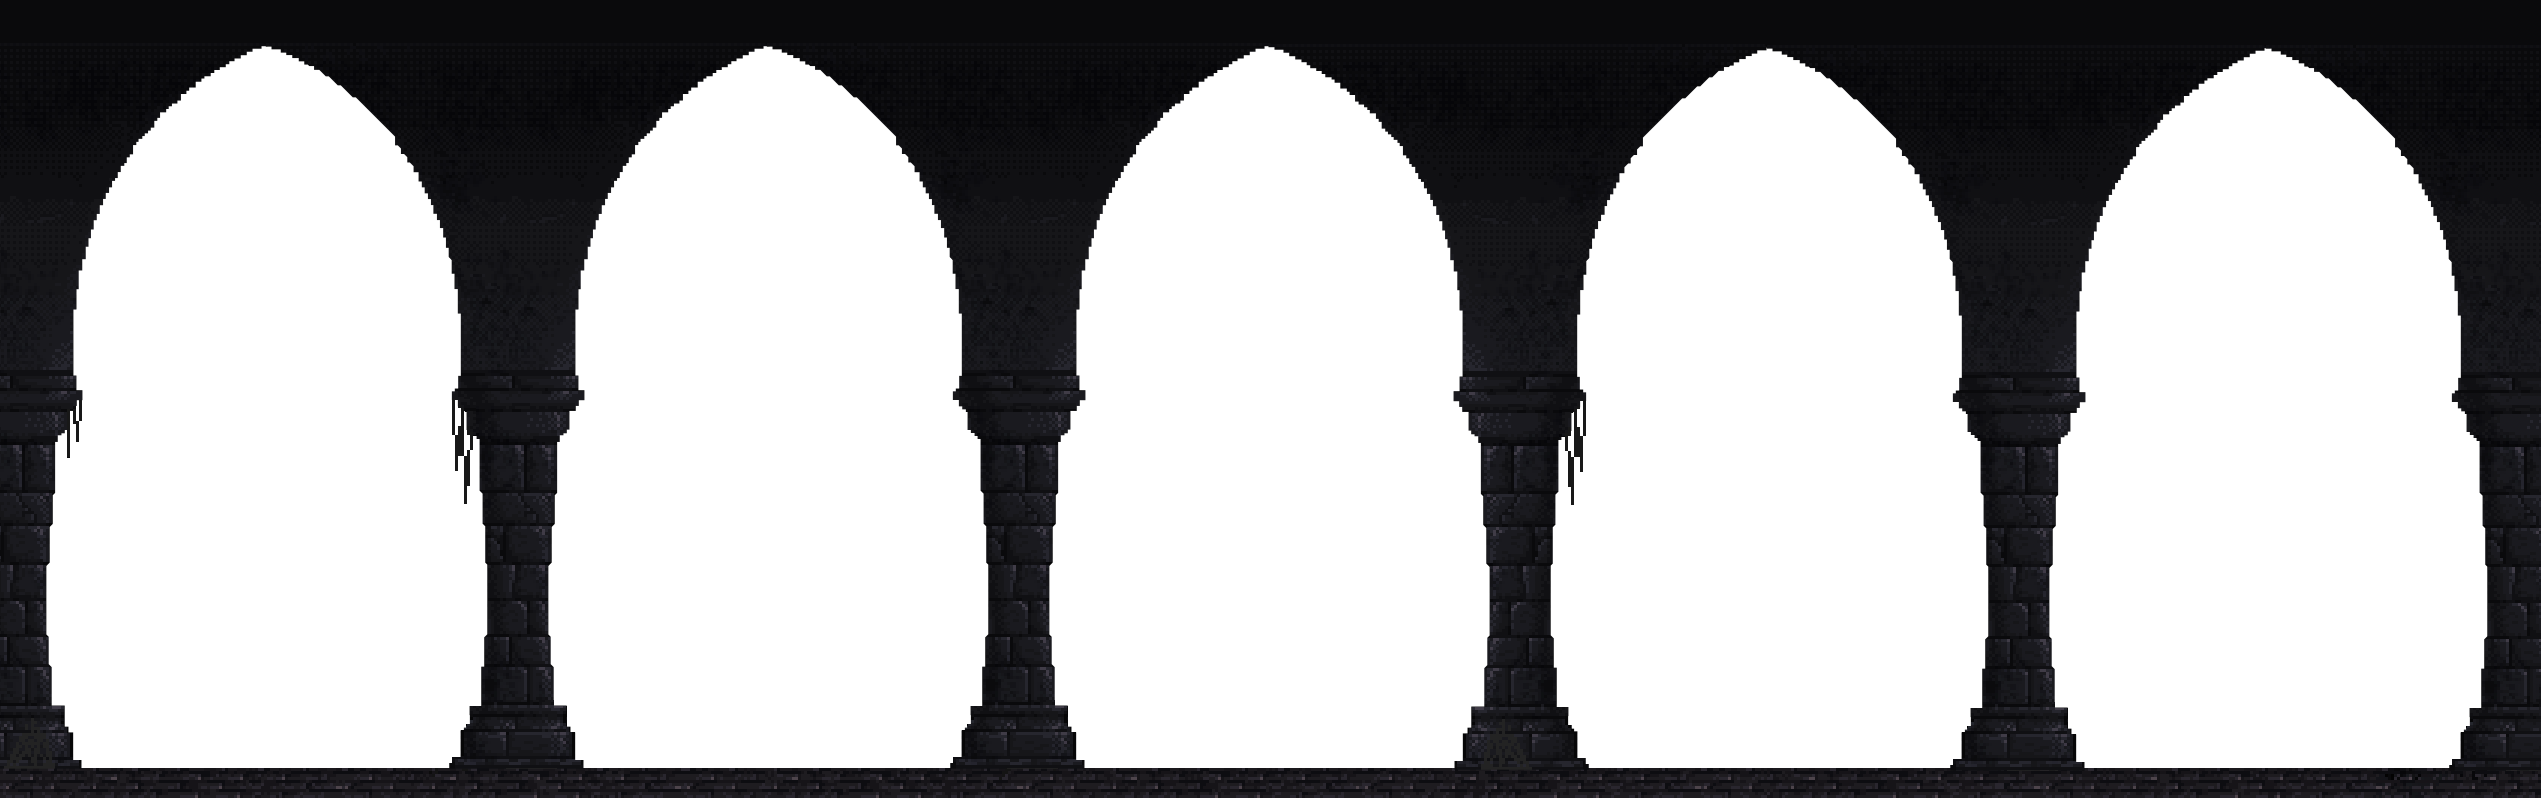
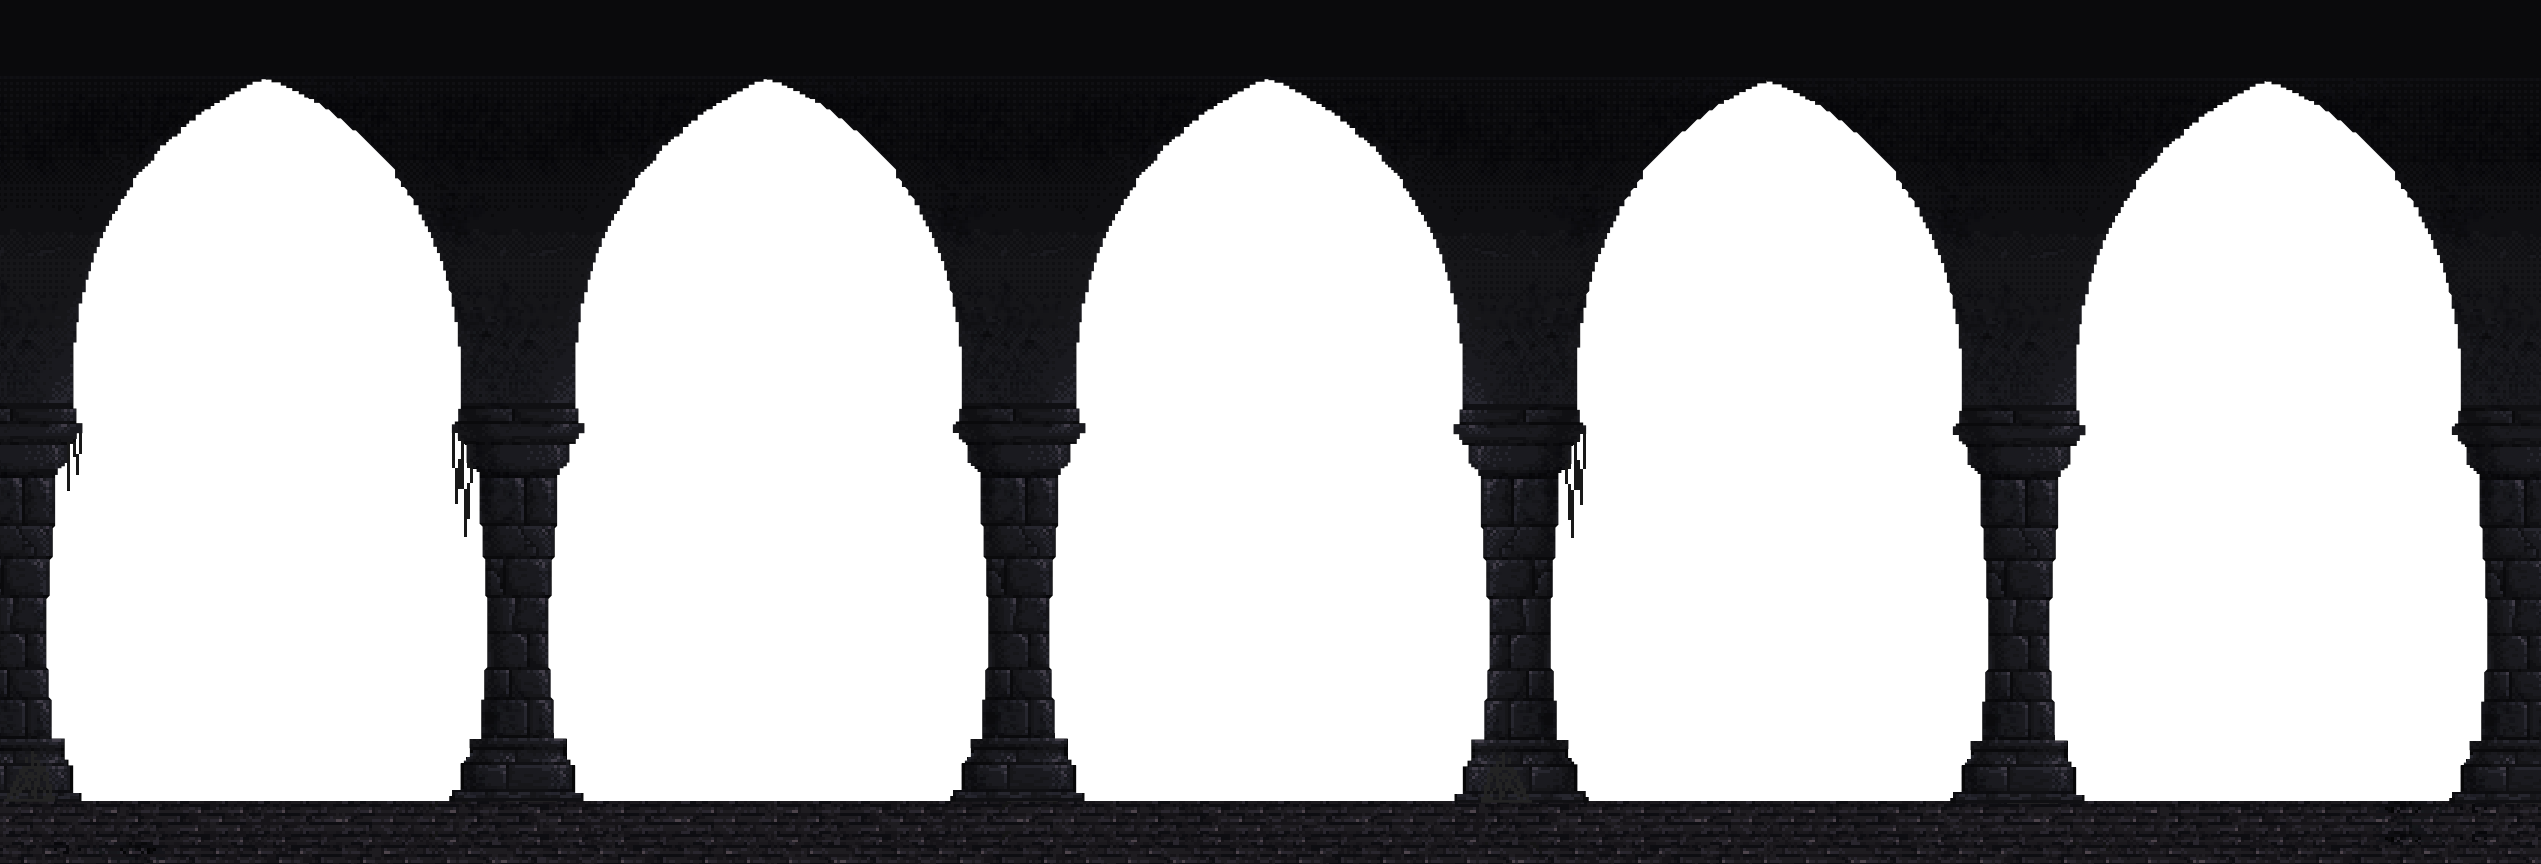
AAAAA YA PSIH AAAAAA

diff --git a/Classes/MainMenuScene.cpp b/Classes/MainMenuScene.cpp
@@ -5,6 +5,7 @@
 #include "Definitions.h"
 #include "AudioEngine.h"
 #include "InputListener.h"
+#include "ui/CocosGUI.h"
 
 USING_NS_CC;
 
@@ -27,6 +28,8 @@ static void problemLoading(const char* filename)
 // on "init" you need to initialize your instance
 bool MainMenuScene::init()
 {
+    InputListener::Instance()->Init(this);
+
     Settings* settings = new Settings;
     AudioEngine::play2d("res/sounds/bgsound2.mp3", true, settings->getMusicVolume());
 
@@ -35,12 +38,15 @@ bool MainMenuScene::init()
 
     parallax1 = Sprite::create("res/parallax/prlxback1.png");
     parallax1->setPosition(Point(visibleSize.width / 2 + origin.x, visibleSize.height / 2 + origin.y));
+    parallax1->setScale(0.9);
     this->addChild(parallax1);
     parallax2 = Sprite::create("res/parallax/prlxmiddle1.png");
     parallax2->setPosition(Point(visibleSize.width / 2 + origin.x, visibleSize.height / 2 + origin.y));
+    parallax2->setScale(0.9);
     this->addChild(parallax2);
     parallax3 = Sprite::create("res/parallax/prlxfront1.png");
     parallax3->setPosition(Point(visibleSize.width / 2 + origin.x, visibleSize.height / 2 + origin.y));
+    parallax3->setScale(0.9);
     this->addChild(parallax3);
 
     auto playItem = MenuItemImage::create("res/ui/buttons/start.png", "res/ui/buttons/start_pressed.png", CC_CALLBACK_1(MainMenuScene::GoToCutScene,this));
@@ -64,10 +70,53 @@ void MainMenuScene::GoToCutScene(cocos2d::Ref* sender)
 
 }
 
+void MainMenuScene::GoToMainMenu(cocos2d::Ref* sender)
+{
+
+}
+
 void MainMenuScene::GoToSettings(cocos2d::Ref* sender)
 {
-    auto scene = Settings::createScene();
-    Director::getInstance()->replaceScene(TransitionFade::create(TRANSITION_TIME, scene));
+    this->removeChildByName("menu", true);
+
+    auto backItem = MenuItemImage::create("res/ui/buttons/back.png", "res/ui/buttons/back_pressed.png", CC_CALLBACK_1(MainMenuScene::GoToMainMenu, this));
+    backItem->setPosition(Point(0, 0));
+
+    auto mBackground = Sprite::create("res/ui/musicbg.png");
+    mBackground->setPosition(Point(visibleSize.width / 2 + origin.x, visibleSize.height / 2 + origin.y));
+    this->addChild(mBackground);
+    musicBar = ui::LoadingBar::create("res/ui/musicbar.png");
+    musicBar->setPosition(Point(visibleSize.width / 2 + origin.x, visibleSize.height / 2 + origin.y));
+    musicBar->setDirection(ui::LoadingBar::Direction::LEFT);
+    musicBar->setPercent(music * 100);
+    this->addChild(musicBar);
+
+    auto musicminusItem = MenuItemImage::create("res/ui/buttons/left.png", "res/ui/buttons/left_pressed.png", CC_CALLBACK_1(MainMenuScene::musicMinus, this));
+    auto musicplusItem = MenuItemImage::create("res/ui/buttons/right.png", "res/ui/buttons/right_pressed.png", CC_CALLBACK_1(MainMenuScene::musicPlus, this));
+    auto musicMenu = Menu::create(musicminusItem, musicplusItem, NULL);
+    musicMenu->setPosition(Point(visibleSize.width / 2 + origin.x, visibleSize.height / 2 + origin.y));
+    musicMenu->alignItemsHorizontallyWithPadding(mBackground->getContentSize().width + 10);
+    this->addChild(musicMenu);
+
+    auto sBackground = Sprite::create("res/ui/sfxbg.png");
+    sBackground->setPosition(Point(visibleSize.width / 2 + origin.x, visibleSize.height / 3 + origin.y));
+    this->addChild(sBackground);
+    sfxBar = ui::LoadingBar::create("res/ui/sfxbar.png");
+    sfxBar->setPosition(Point(visibleSize.width / 2 + origin.x, visibleSize.height / 3 + origin.y));
+    sfxBar->setDirection(ui::LoadingBar::Direction::LEFT);
+    sfxBar->setPercent(sfx * 100);
+    this->addChild(sfxBar);
+
+    auto sfxminusItem = MenuItemImage::create("res/ui/buttons/left.png", "res/ui/buttons/left_pressed.png", CC_CALLBACK_1(MainMenuScene::sfxMinus, this));
+    auto sfxplusItem = MenuItemImage::create("res/ui/buttons/right.png", "res/ui/buttons/right_pressed.png", CC_CALLBACK_1(MainMenuScene::sfxPlus, this));
+    auto sfxMenu = Menu::create(sfxminusItem, sfxplusItem, NULL);
+    sfxMenu->setPosition(Point(visibleSize.width / 2 + origin.x, visibleSize.height / 3 + origin.y));
+    sfxMenu->alignItemsHorizontallyWithPadding(sBackground->getContentSize().width + 10);
+    this->addChild(sfxMenu);
+
+    auto menu = Menu::create(backItem, NULL);
+    menu->setPosition(Point(visibleSize.width / 2 + origin.x, visibleSize.height / 5 + origin.y));
+    this->addChild(menu);
 }
 
 void MainMenuScene::Exit(cocos2d::Ref* sender)
@@ -77,9 +126,62 @@ void MainMenuScene::Exit(cocos2d::Ref* sender)
 
 void MainMenuScene::update(float dt)
 {
-    InputListener::Instance()->Init(this);
     CCLOG("mouse move %f, %f", InputListener::Instance()->mousePosition.x, InputListener::Instance()->mousePosition.y);
     parallax1->setPosition(Point(((visibleSize.width / 2 + origin.x) - InputListener::Instance()->mousePosition.x * 0.1), 50 + ((visibleSize.height / 2 + origin.y) - InputListener::Instance()->mousePosition.y * 0.1)));
     parallax2->setPosition(Point(((visibleSize.width / 2 + origin.x) - InputListener::Instance()->mousePosition.x * 0.2), 50 + ((visibleSize.height / 2 + origin.y) - InputListener::Instance()->mousePosition.y * 0.1)));
     parallax3->setPosition(Point(((visibleSize.width / 2 + origin.x) - InputListener::Instance()->mousePosition.x * 0.6), 50 + ((visibleSize.height / 2 + origin.y) - InputListener::Instance()->mousePosition.y * 0.1)));
+}
+
+void MainMenuScene::musicPlus(cocos2d::Ref* sender)
+{
+    if (music < 1.0)
+    {
+        music += 0.1f;
+        musicBar->setPercent(music * 100);
+        AudioEngine::setVolume(1, music);
+    }
+}
+
+void MainMenuScene::musicMinus(cocos2d::Ref* sender)
+{
+    if (music > 0.00f)
+    {
+        music -= 0.1f;
+        musicBar->setPercent(music * 100);
+        AudioEngine::setVolume(1, music);
+    }
+}
+
+void MainMenuScene::sfxPlus(cocos2d::Ref* sender)
+{
+    if (sfx < 1.0)
+    {
+        sfx += 0.1f;
+        sfxBar->setPercent(sfx * 100);
+    }
+}
+
+void MainMenuScene::sfxMinus(cocos2d::Ref* sender)
+{
+    if (sfx > 0.00f)
+    {
+        sfx -= 0.1f;
+        sfxBar->setPercent(sfx * 100);
+    }
+}
+
+float MainMenuScene::getMusicVolume()
+{
+    return music;
+}
+
+float MainMenuScene::getSFXVolume()
+{
+    return sfx;
+}
+
+
+double MainMenuScene::getDifficult()
+{
+    return difficult;
 }

diff --git a/Classes/MainMenuScene.h b/Classes/MainMenuScene.h
@@ -2,6 +2,9 @@
 #define __MAIN_MENU_SCENE_H__
 
 #include "cocos2d.h"
+#include "ui/CocosGUI.h"
+
+USING_NS_CC;
 
 class MainMenuScene : public cocos2d::Layer
 {
@@ -13,12 +16,27 @@ public:
     void menuCloseCallback(cocos2d::Ref* pSender);
     void update(float dt);
 
+    ui::LoadingBar* musicBar;
+    ui::LoadingBar* sfxBar;
+
+    double difficult = 1.0;
+    double getDifficult();
+    float getMusicVolume();
+    float getSFXVolume();
+
     CREATE_FUNC(MainMenuScene);
 private:
+    float music = 0.01;
+    float sfx = 0.01;
+
+    void musicPlus(cocos2d::Ref* pSender);
+    void musicMinus(cocos2d::Ref* pSender);
+    void sfxPlus(cocos2d::Ref* pSender);
+    void sfxMinus(cocos2d::Ref* pSender);
+
     void GoToCutScene(cocos2d::Ref* sender);
-
     void GoToSettings(cocos2d::Ref* sender);
-
+    void GoToMainMenu(cocos2d::Ref* sender);
     void Exit(cocos2d::Ref* sender);
 
     cocos2d::Size visibleSize;
